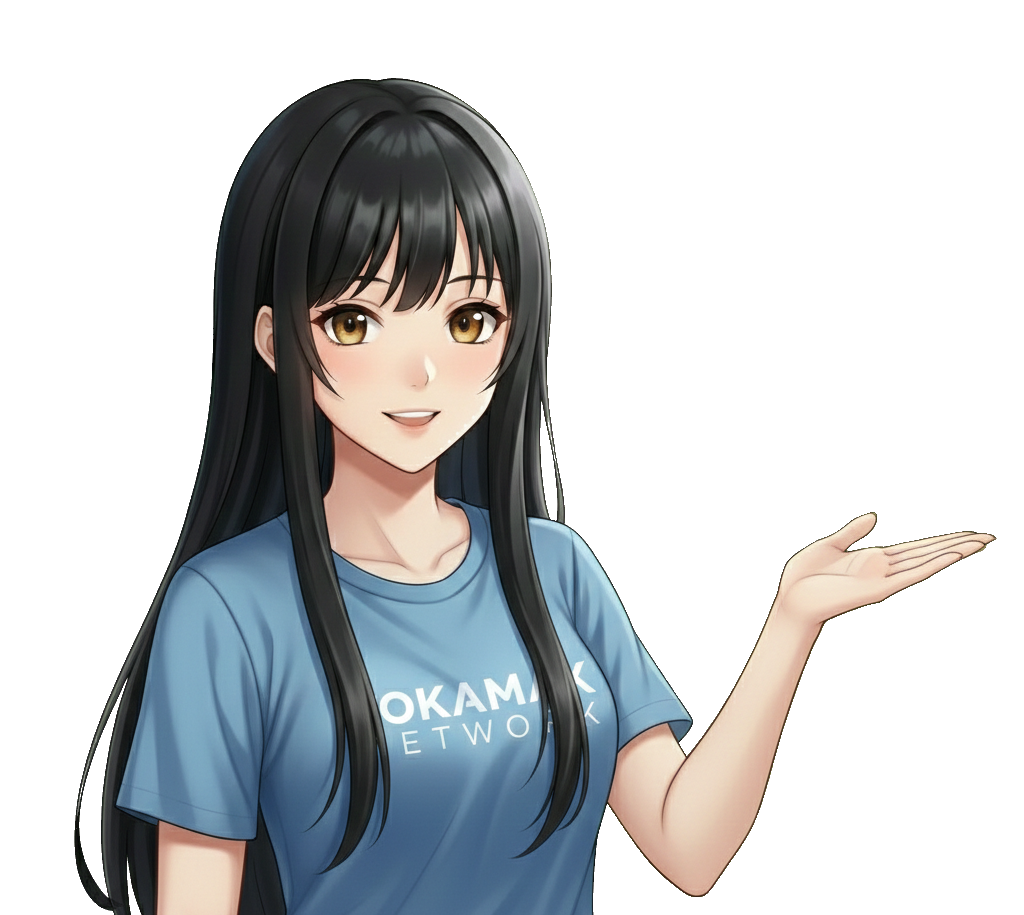
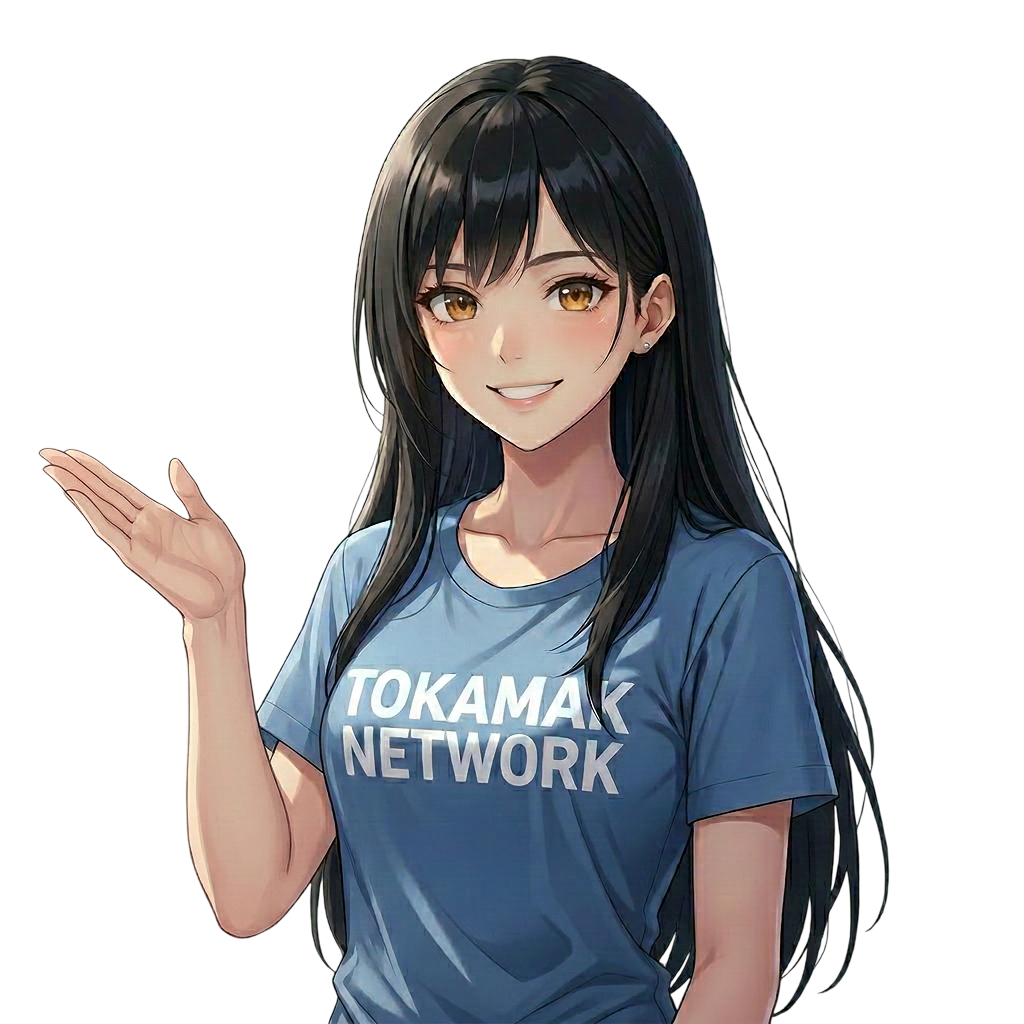
fix: move Etherscan API key to env var and fix chat character sizing
- Move hardcoded Etherscan API key from foundry.toml to ${ETHERSCAN_API_KEY}
  environment variable reference to prevent key exposure in git
- Add ETHERSCAN_API_KEY setup instructions to DEPLOY.md
- Add --verify flag to Sepolia deploy command in DEPLOY.md
- Fix floating chat widget character size flickering by using
  object-contain + items-end for consistent image display
- Update character sprites (pointing, presenting, wink)

diff --git a/src/components/chat/TokiChat.tsx b/src/components/chat/TokiChat.tsx
@@ -141,7 +141,7 @@ function ChatCharacter({ mood }: { mood: Mood }) {
   }, [mood, prevMood]);
 
   return (
-    <div className="relative flex justify-center h-44 overflow-hidden">
+    <div className="relative flex justify-center items-end h-44 overflow-hidden">
       <div
         className="absolute bottom-0 left-1/2 -translate-x-1/2 w-32 h-16 rounded-full blur-2xl opacity-50 transition-colors duration-500"
         style={{ backgroundColor: MOOD_GLOW[mood] }}
@@ -151,7 +151,7 @@ function ChatCharacter({ mood }: { mood: Mood }) {
         alt="Toki"
         width={256}
         height={256}
-        className={`relative z-10 w-40 h-40 object-cover object-top drop-shadow-lg transition-opacity duration-150 ${
+        className={`relative z-10 w-40 h-44 object-contain object-bottom drop-shadow-lg transition-opacity duration-150 ${
           transitioning ? "opacity-0" : "opacity-100"
         }`}
       />

diff --git a/paymaster/DEPLOY.md b/paymaster/DEPLOY.md
@@ -5,6 +5,11 @@
 - Foundry 설치 (`forge`, `cast`)
 - 배포자 지갑에 충분한 ETH (배포 가스비 + stake + deposit)
 - 배포자 private key
+- Etherscan API key (`ETHERSCAN_API_KEY` 환경변수 설정)
+
+```bash
+export ETHERSCAN_API_KEY=<YOUR_ETHERSCAN_API_KEY>
+```
 
 ## Sepolia 테스트넷 배포
 
@@ -26,11 +31,13 @@ forge script script/Deploy.s.sol:DeployTONPaymaster \
   --rpc-url https://eth-sepolia.g.alchemy.com/v2/<ALCHEMY_KEY> \
   --private-key <PRIVATE_KEY> \
   --broadcast \
-  --slow
+  --slow \
+  --verify
 ```
 
 - `--slow`: 트랜잭션을 하나씩 순차 전송 (rate limit 방지)
 - `--broadcast`: 실제 전송 (없으면 시뮬레이션만)
+- `--verify`: Etherscan에 소스코드 자동 검증 (`foundry.toml`의 `[etherscan]` 키 사용)
 
 ### 배포 후 확인
 
@@ -72,12 +79,10 @@ forge script script/DeployMainnet.s.sol:DeployTONPaymasterMainnet \
   --private-key <PRIVATE_KEY> \
   --broadcast \
   --slow \
-  --verify \
-  --etherscan-api-key <ETHERSCAN_KEY>
+  --verify
 ```
 
-- `--verify`: Etherscan에 소스코드 자동 검증
-- `--etherscan-api-key`: Etherscan API 키 (소스 검증용)
+- `--verify`: Etherscan에 소스코드 자동 검증 (`foundry.toml`의 `[etherscan]` 키 사용)
 
 ### 메인넷 배포 스크립트가 하는 일
 
